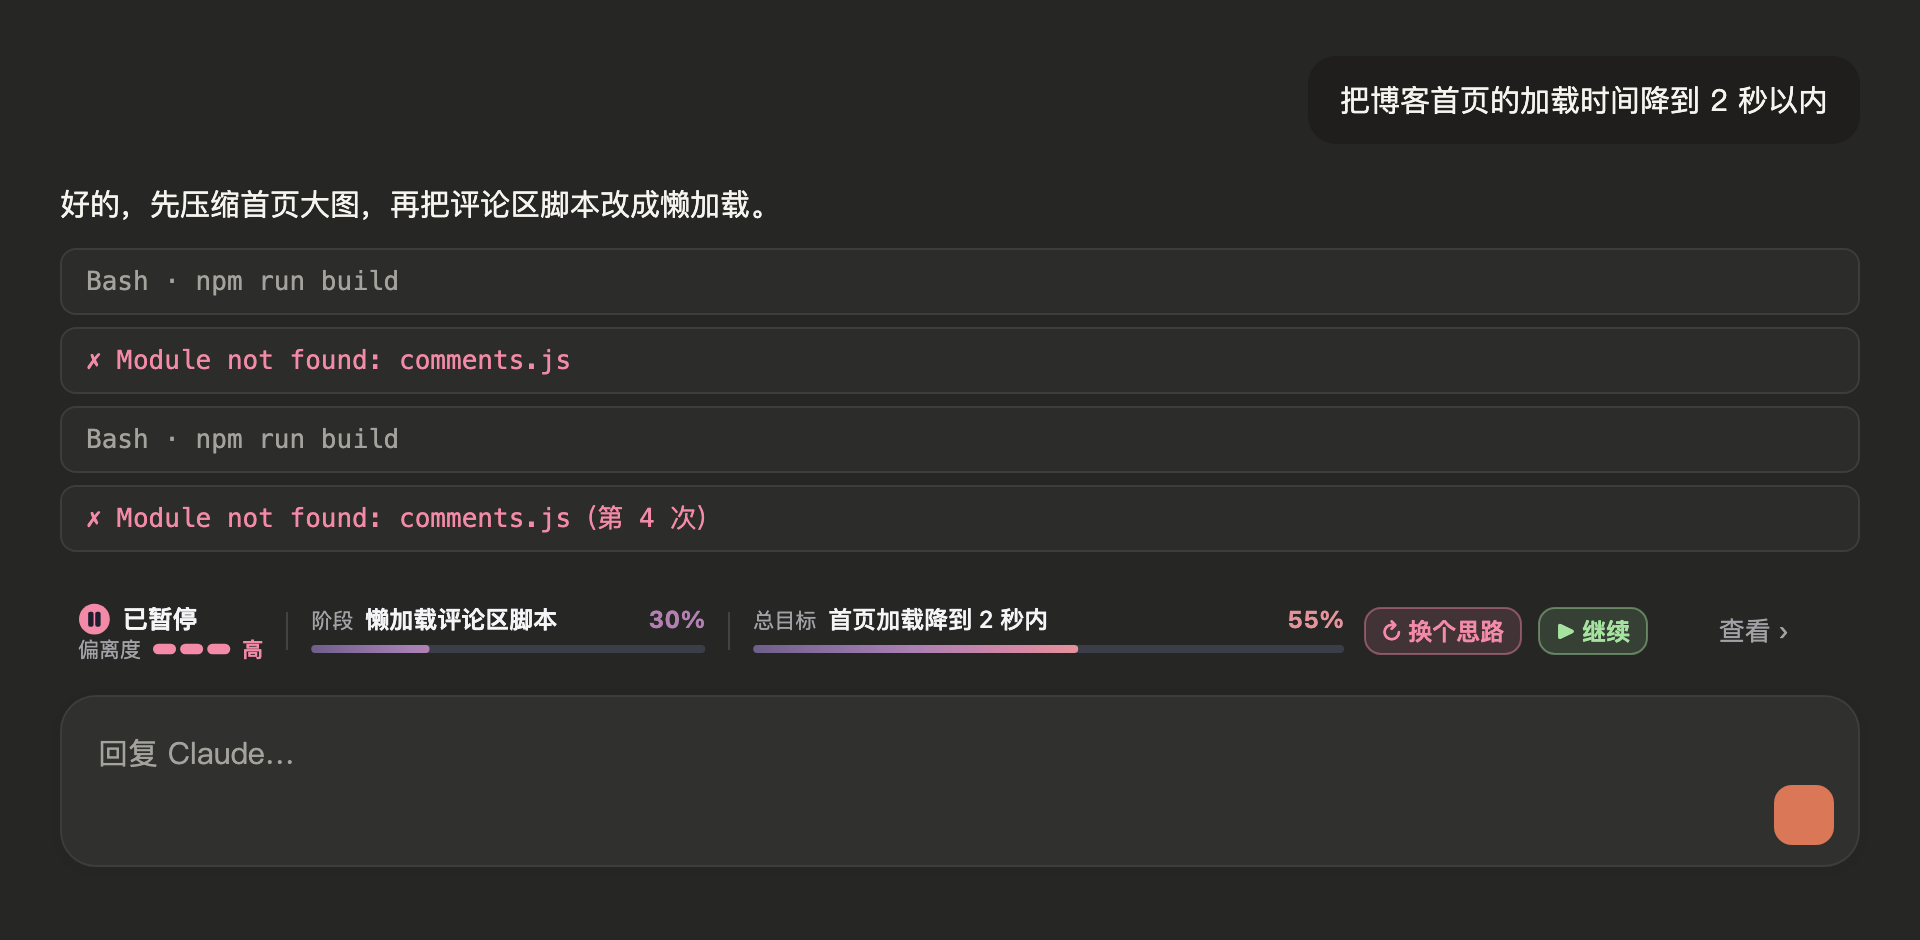
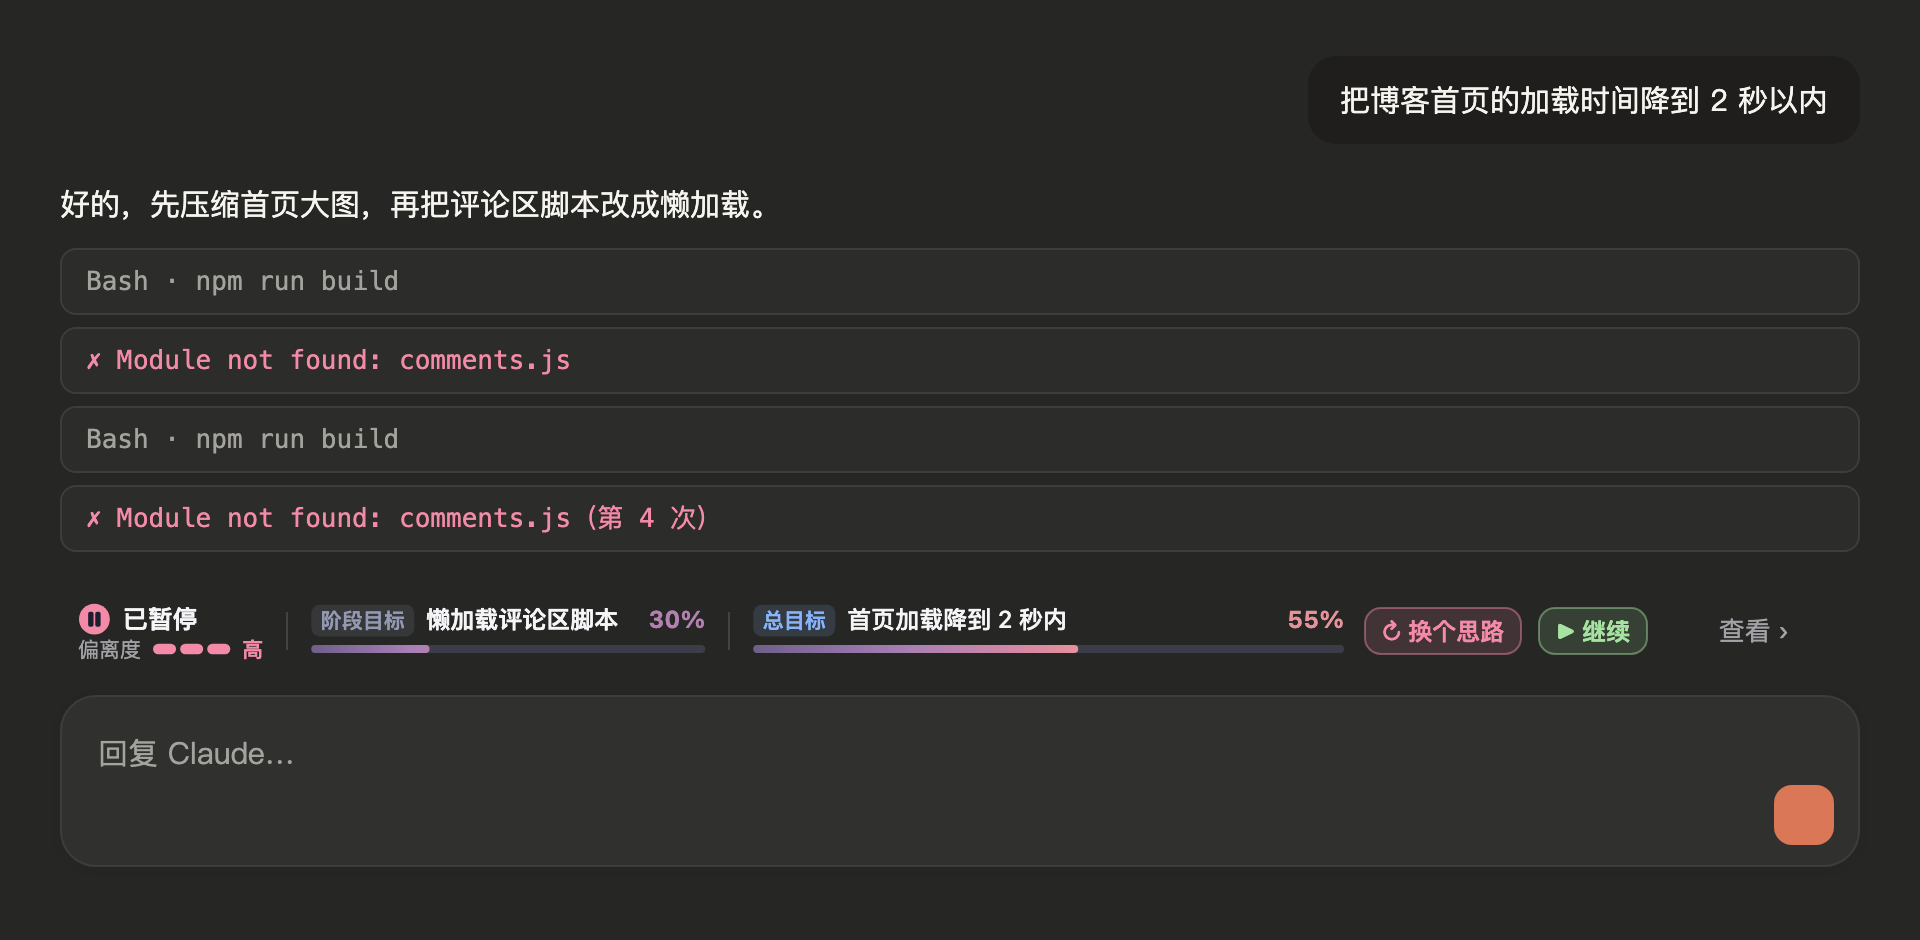
v0.1.5: 区分总目标和阶段目标
小条和 /drift 面板里「总目标」用蓝色浅底标签，「阶段」改名「阶段目标」用灰色标签；
面板里阶段目标缩进并用细线挂在总目标下面。进度条配色不变。重截 README 界面图。

Changed region(s): [[0.375, 0.617, 0.5625, 0.6787], [0.1562, 0.6479, 0.3438, 0.6787]]

diff --git a/hooks/view.ts b/hooks/view.ts
@@ -233,6 +233,19 @@ export function pbar(id: string, x: number, cy: number, w: number, h: number, pc
   return out
 }
 
+// 「总目标」「阶段目标」做成浅底小标签，一眼分开大目标和眼下这一段：
+// 总目标用蓝（和航迹里「目标」那个点同色），阶段目标用灰；进度条仍统一用摩卡日落，不靠条的颜色区分
+export function tag(x: number, base: number, label: string, size: number) {
+  const c = label === '总目标' ? 'var(--blue)' : 'var(--norm)'
+  const w = textW(label, size) + size * 0.9, h = size * 1.5
+  const y = base - size * 0.36 - h / 2 // 汉字中心 = 基线上字号×0.36
+  return {
+    w,
+    body: `<rect x="${x}" y="${y.toFixed(1)}" width="${w.toFixed(1)}" height="${h.toFixed(1)}" rx="${(size * 0.4).toFixed(1)}" style="fill:${c};fill-opacity:.15"/>` +
+      `<text x="${(x + w / 2).toFixed(1)}" y="${base}" text-anchor="middle" style="fill:${c};font-size:${size}px;font-weight:600">${esc(label)}</text>`,
+  }
+}
+
 // 面板上半：结论（大）+ 一句人话（正文）
 export function svgHead(v: View, width: number) {
   const W = Math.max(220, Math.min(560, width))
@@ -330,7 +343,7 @@ export const fit = (s: string, n: number) => {
 // 小条的顺序：结论、偏离度、阶段挨在左边（眼下最要紧的），总目标（暂停时换成暂停原因）整块贴最右
 export function bandSegs(kind: Kind, t: { main: string; sub: string }, br: Brief): Seg[] {
   const segs: Seg[] = []
-  if (br.stage) segs.push({ label: '阶段', text: fit(br.stage, CAP.阶段!), pct: br.stagePct })
+  if (br.stage) segs.push({ label: '阶段目标', text: fit(br.stage, CAP.阶段!), pct: br.stagePct })
   if (kind === 'pause') segs.push({ label: '暂停原因', text: fit(t.sub, CAP.暂停原因!), pct: null, tone: 'error' })
   else segs.push({ label: '总目标', text: fit(br.goal, CAP.总目标!), pct: br.total })
   return segs
@@ -359,7 +372,7 @@ export function svgBand(kind: Kind, t: { main: string; sub: string }, br: Brief,
   body += meter(kind, 1, L.mcy, L.mz, L.mty).body
   // 1px 宽的线以左边为准，中线要减 0.5 再取整，才落在间隔正中且不发虚
   const sep = (x: number) => `<rect x="${Math.round(x - 0.5)}" y="${L.sepY}" width="1" height="${H - L.sepY * 2}" class="track"/>`
-  let left: Seg | undefined = { label: '阶段', text: br.stage || '/', pct: br.stage ? br.stagePct : null }
+  let left: Seg | undefined = { label: '阶段目标', text: br.stage || '/', pct: br.stage ? br.stagePct : null }
   let right: Seg | undefined = { label: '总目标', text: br.goal || '/', pct: br.total }
   const R = Math.max(maxW, 160) - 6
   const x0 = statusW + GAP
@@ -373,9 +386,10 @@ export function svgBand(kind: Kind, t: { main: string; sub: string }, br: Brief,
   if (left && lw < MIN_CELL.阶段) (left = undefined), ({ lw, rw } = split())
   // 一个格子：上面「标签 文字 …… 百分比」，下面进度条撑满整格；没有进度时百分比写「/」、条留空槽
   const cell = (sg: Seg, id: string, x: number, w: number) => {
-    const lab = `<text x="${x}" y="${L.base}" class="l2" style="font-size:${L.lab}px">${esc(sg.label)}</text>`
-    const labW = textW(sg.label, L.lab) + 6
-    const weight = sg.label === '阶段' ? 600 : 500
+    const tg = sg.label === '暂停原因' ? null : tag(x, L.base, sg.label, L.lab)
+    const lab = tg ? tg.body : `<text x="${x}" y="${L.base}" class="l2" style="font-size:${L.lab}px">${esc(sg.label)}</text>`
+    const labW = (tg ? tg.w : textW(sg.label, L.lab)) + 6
+    const weight = sg.label === '阶段目标' ? 600 : 500
     const none = sg.pct === null
     const pt = none ? '/' : pctText(sg.pct)
     const s = fit(sg.text, (w - labW - textW(pt, L.pt) - 10) / L.tx)

diff --git a/hooks/track.ts b/hooks/track.ts
@@ -1,7 +1,7 @@
 import type { Board, Step } from '../types'
 import { NORMAL_DEG, SEVERE_DEG, currentItem, degOf } from './analyze'
 import type { Brief, Kind, View } from './view'
-import { esc, icon, meter, pbar, pctText, svg, textW, wrap } from './view'
+import { esc, icon, meter, pbar, pctText, svg, tag, textW, wrap } from './view'
 
 // 面板 v2：一个焦点（结论 + 现在在哪），颜色只给异常，文字只标偏了的步骤，次要数字压成一行，细节收进按钮。
 
@@ -67,12 +67,15 @@ export function svgHero(b: Board, v: View, br: Brief, width: number, updated: st
   const rows: { label: string; text: string; pct: number | null; chip?: string; tail?: string }[] = [
     { label: '总目标', text: br.goal, pct: br.total, chip: ver && ver.v >= 2 ? `第 ${ver.v} 版` : undefined },
   ]
-  if (br.stage) rows.push({ label: '阶段', text: br.stage, pct: br.stagePct, tail: cur && b.plan.length > 1 ? `（第 ${b.plan.indexOf(cur) + 1} 段，共 ${b.plan.length} 段）` : '' })
+  if (br.stage) rows.push({ label: '阶段目标', text: br.stage, pct: br.stagePct, tail: cur && b.plan.length > 1 ? `（第 ${b.plan.indexOf(cur) + 1} 段，共 ${b.plan.length} 段）` : '' })
   const BAR = 80
   rows.forEach((r, i) => {
-    let x = 0
-    body += tx(x, y + 4.5, r.label, { size: 12, fill: 'var(--sub)' })
-    x += textW(r.label, 12) + 10
+    // 阶段目标属于总目标：往里缩一格，用一条细线从总目标挂下来
+    let x = i > 0 ? 16 : 0
+    if (i > 0) body += `<path d="M6 ${y - 22}V${y}H${x - 3}" fill="none" style="stroke:var(--faint)" stroke-width="1.2"/>`
+    const tg = tag(x, y + 5, r.label, 12)
+    body += tg.body
+    x += tg.w + 10
     if (r.chip) {
       const cw = textW(r.chip, 10) + 14
       body += `<rect x="${x}" y="${y - 8}" width="${cw}" height="16" rx="8" style="fill:none;stroke:var(--blue)" stroke-width="1"/>`

diff --git a/hooks/register.tsx b/hooks/register.tsx
@@ -609,7 +609,7 @@ export const register: Register = (on, options) => {
           <Text wrap="wrap">{v.reason}</Text>
           {[
             { label: '总目标', text: br.goal, pct: br.total },
-            { label: '阶段', text: br.stage, pct: br.stagePct },
+            { label: '阶段目标', text: br.stage, pct: br.stagePct },
           ]
             .filter(sg => sg.text)
             .map(sg => (
